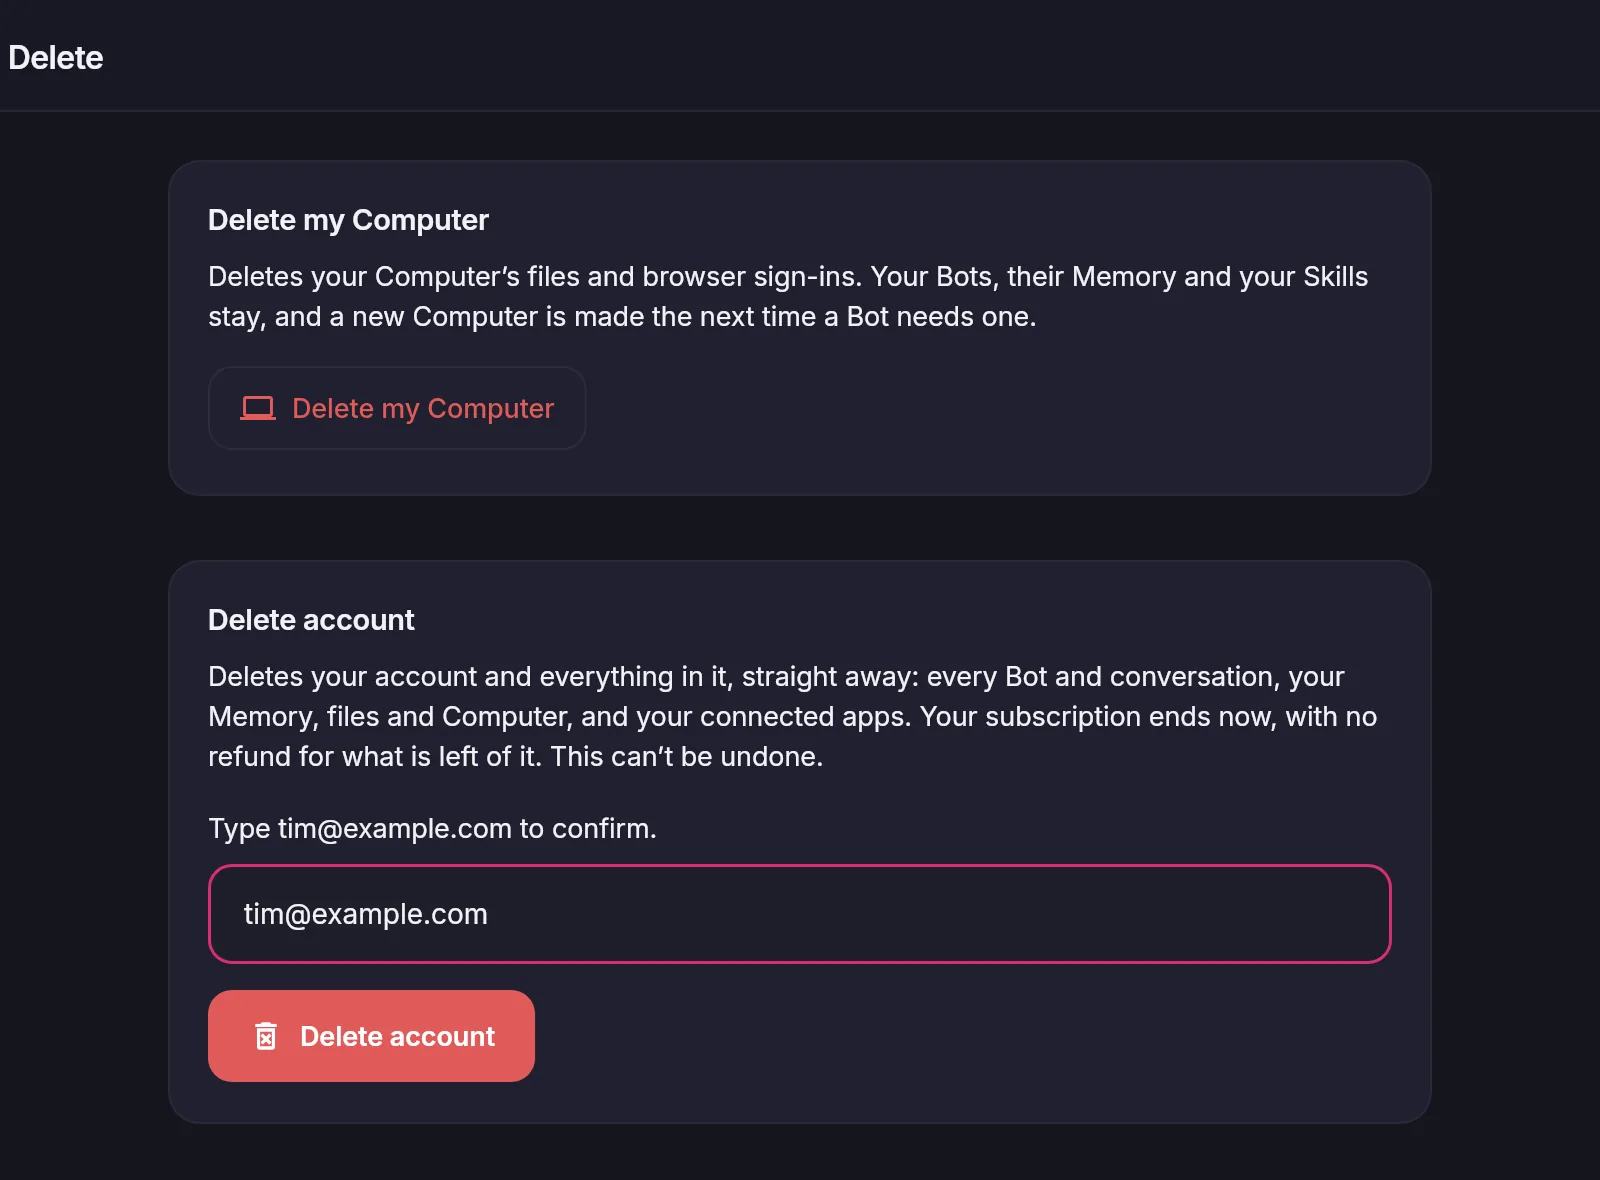
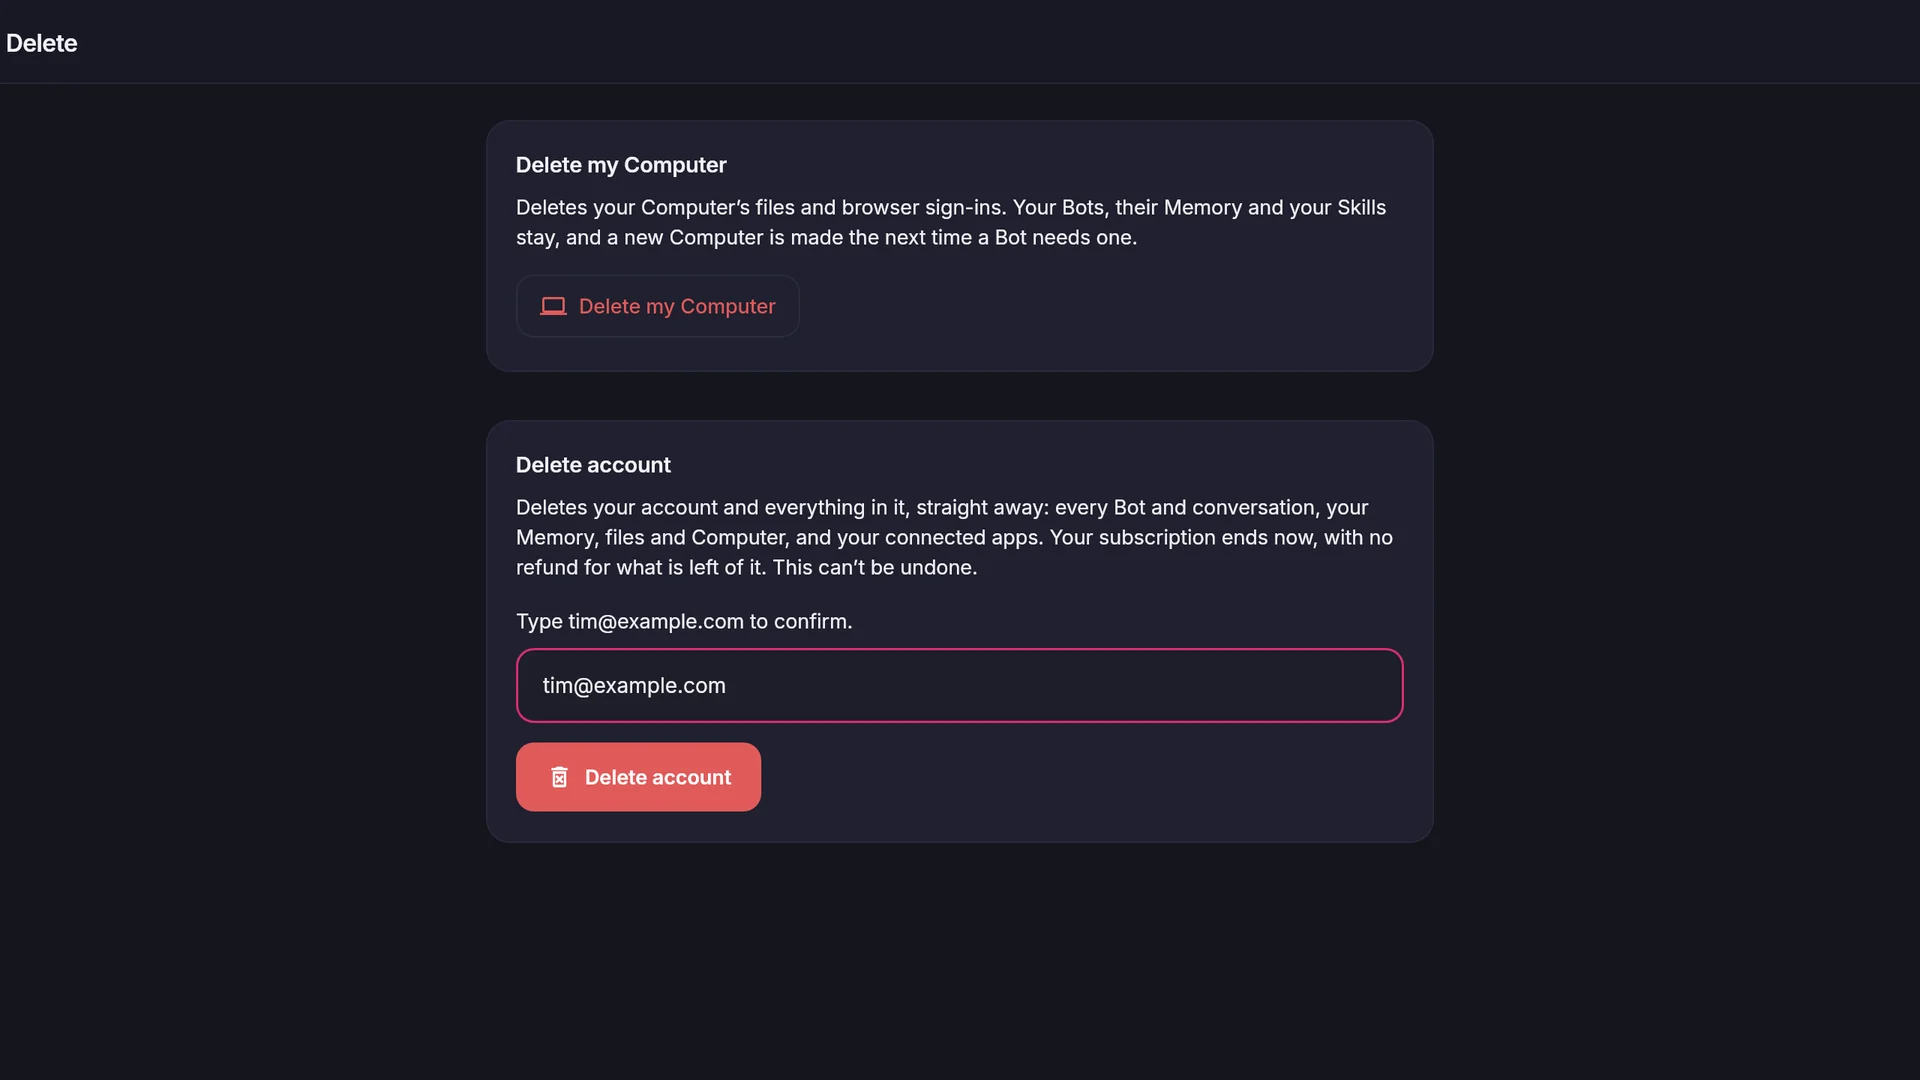
Frame the deletion still at 16:9 and say what landed
Claude-Session: https://claude.ai/code/session_01QJq3nsmLo41b6iU5JrzyhJ

diff --git a/apps/native/test/account_deletion_shots_test.dart b/apps/native/test/account_deletion_shots_test.dart
@@ -32,7 +32,8 @@ void main() {
         'MaterialIcons',
       )..addFont(rootBundle.load('fonts/MaterialIcons-Regular.otf'))).load();
     });
-    tester.view.physicalSize = const Size(1600, 1400);
+    // 16:9, the frame the What’s New card draws.
+    tester.view.physicalSize = const Size(2560, 1440);
     tester.view.devicePixelRatio = 2;
     addTearDown(tester.view.resetPhysicalSize);
     addTearDown(tester.view.resetDevicePixelRatio);

diff --git a/app/whats-new/entries/delete-account.ts b/app/whats-new/entries/delete-account.ts
@@ -5,7 +5,7 @@ export default {
   added: "2026-09-24T07:09:08Z",
   title: "Delete your Computer or your account",
   summary:
-    "Start your Computer again empty, or delete your account and everything in it, from You → Delete.",
+    "A Computer starts again empty, and an account goes with everything in it, the moment you confirm.",
   kind: "feature",
   image: {
     file: "delete-account.webp",
